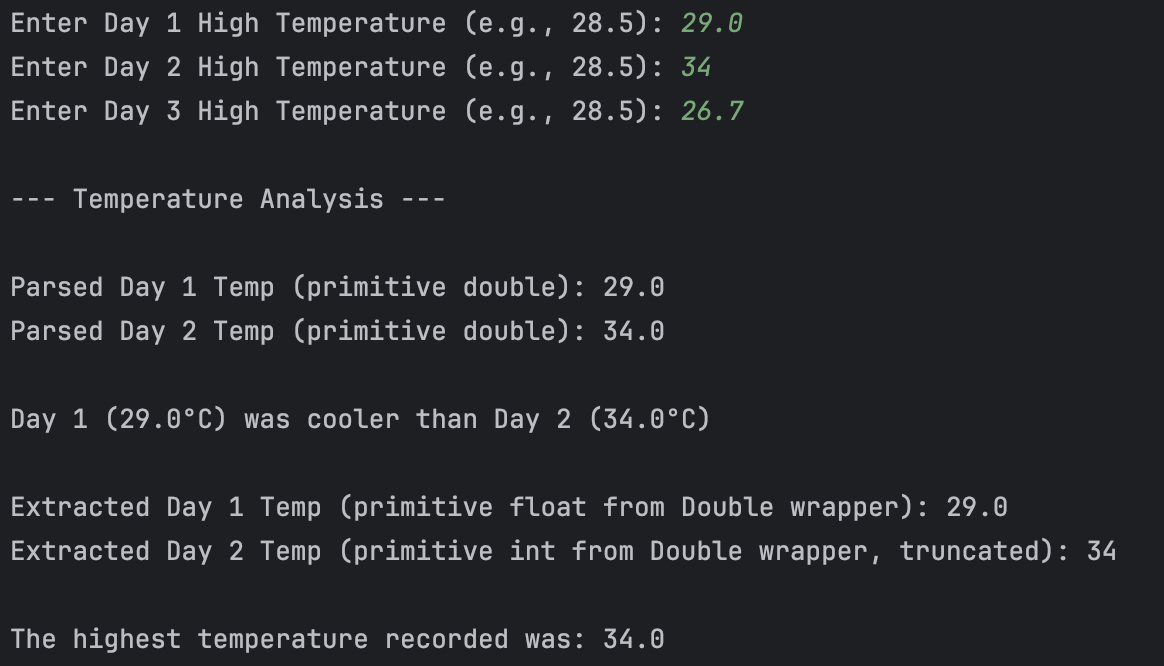
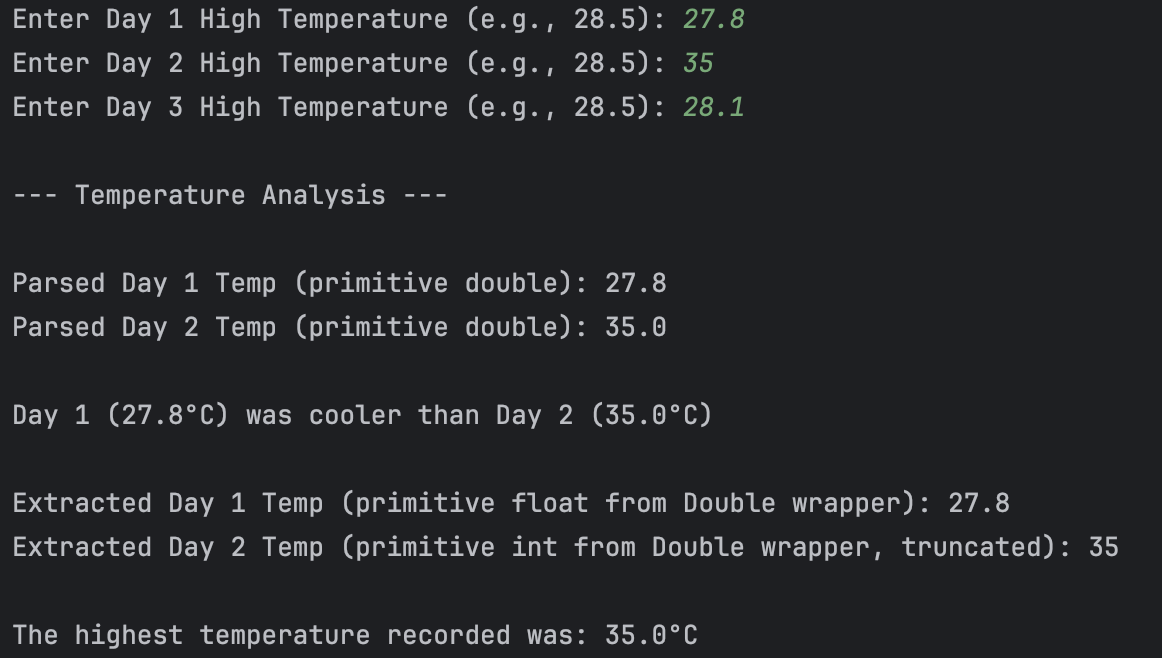
complete: Laboratory Activity: Daily Temperature Tracker & Analyzer

diff --git a/src/main/java/org/example/TemperatureAnalyzer.java b/src/main/java/org/example/TemperatureAnalyzer.java
@@ -61,7 +61,7 @@ public class TemperatureAnalyzer {
         Double day3TempWrapper = Double.valueOf(day3TempPrimitive);
 
         double max = Math.max(day1TempPrimitive, Math.max(day2TempPrimitive,day3TempPrimitive));
-        System.out.println("\nThe highest temperature recorded was: " + max);
+        System.out.println("\nThe highest temperature recorded was: " + max + "°C");
 
     }
 }

diff --git a/README.md b/README.md
@@ -1,0 +1,5 @@
+# Laboratory Activity: Daily Temperature Tracker & Analyzer
+Submitted by: Baruc, Jana Enigma S.
+
+## Output
+![Ouput](output.png)
